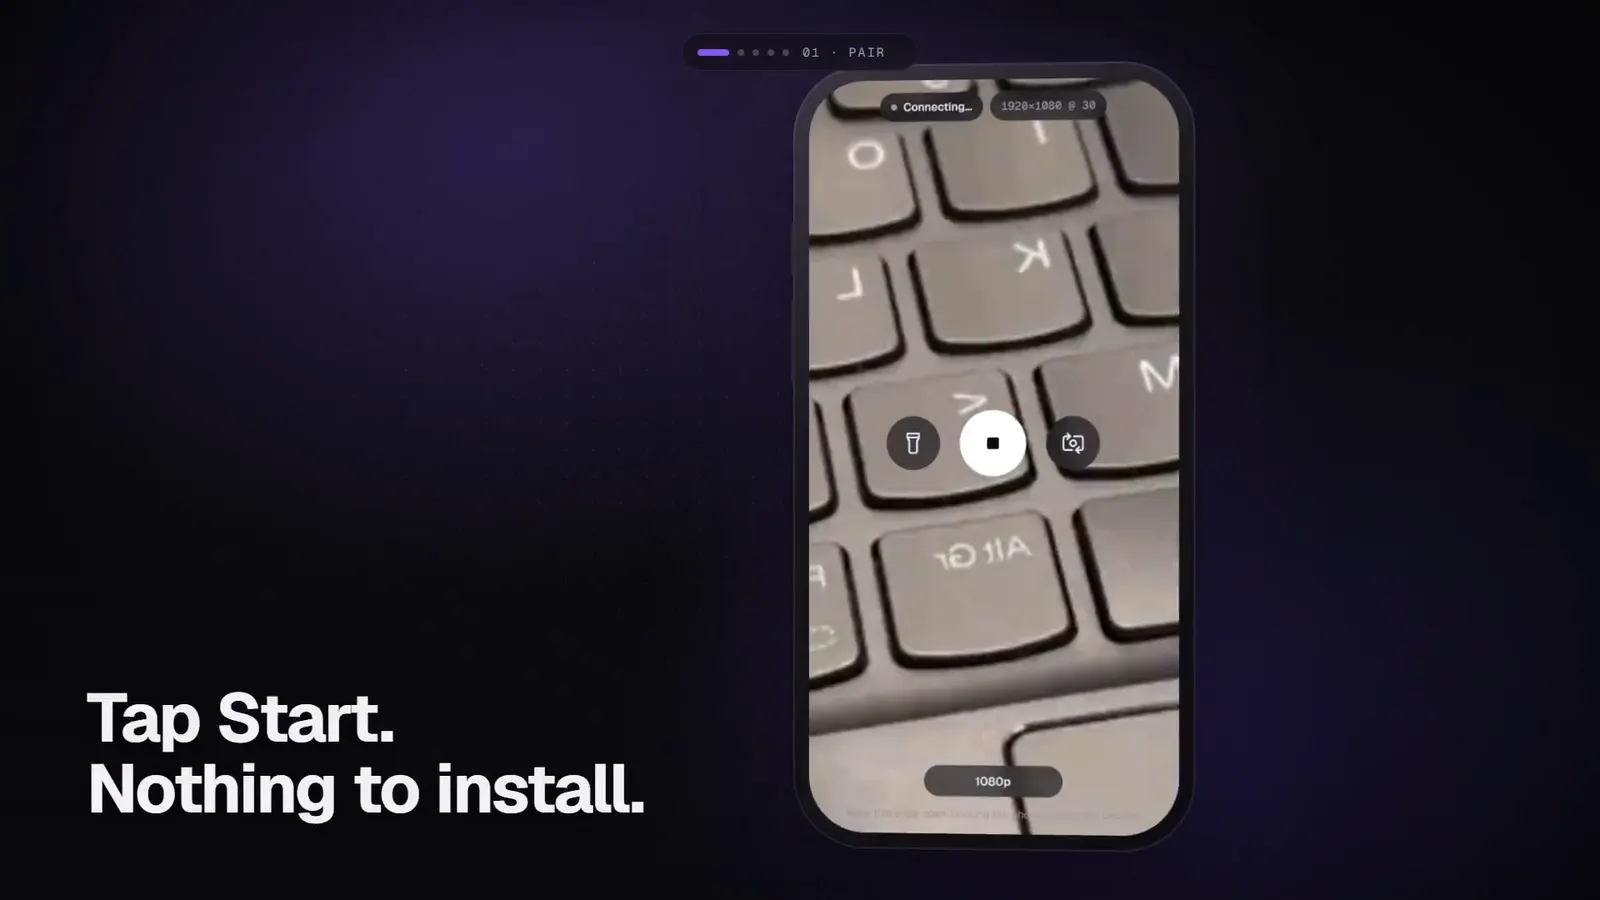
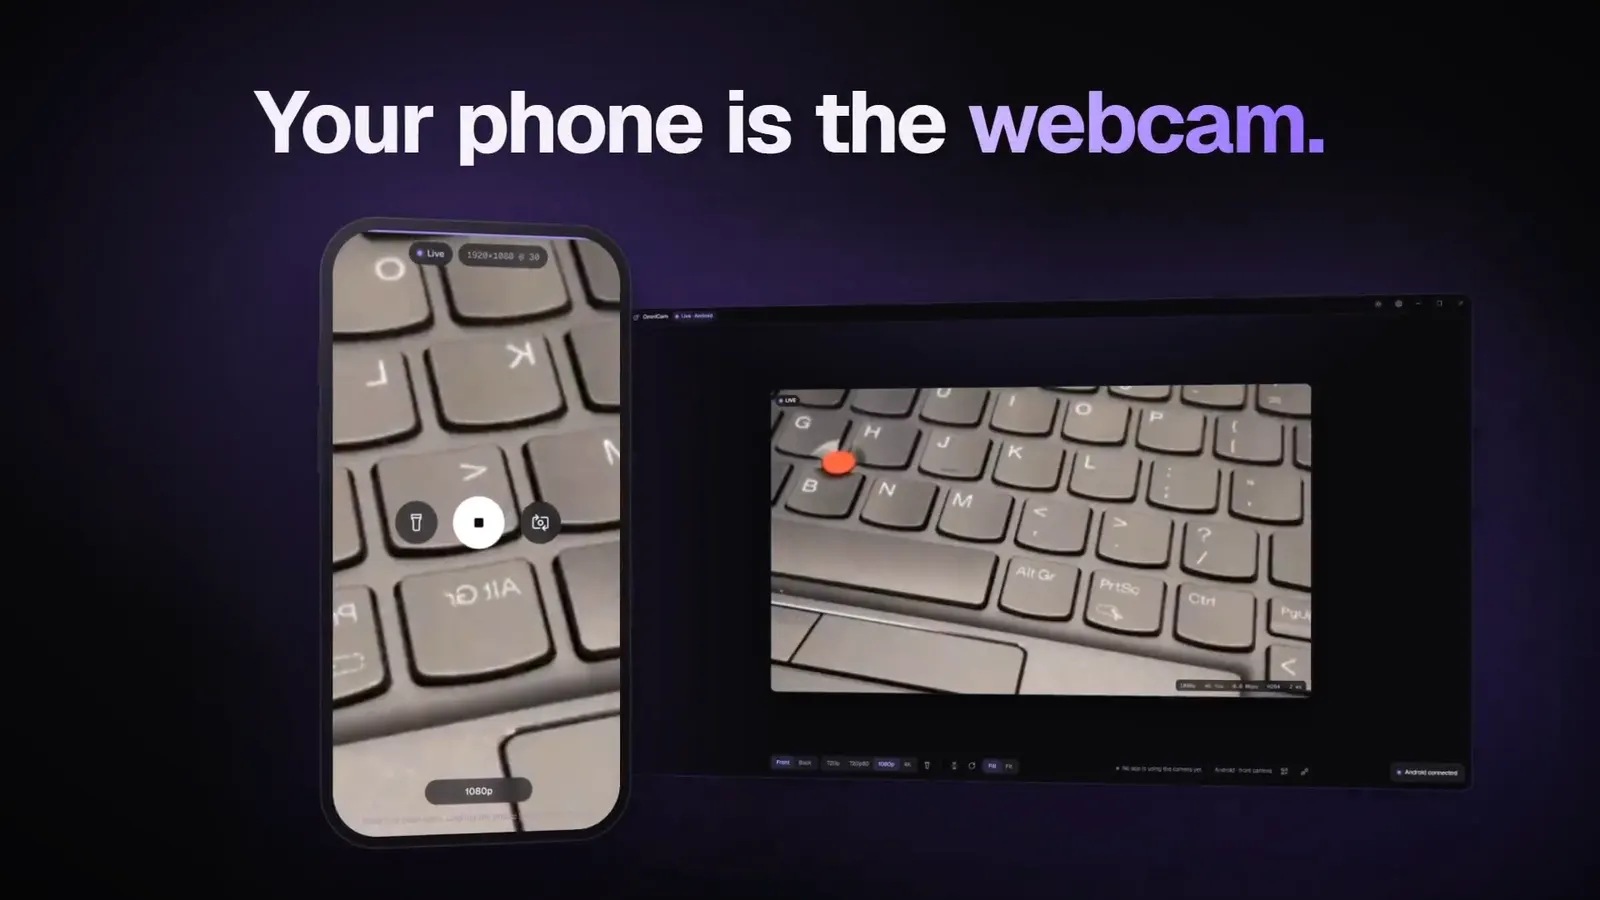
Autoplay the whole demo video, muted
Browsers only autoplay video without sound, so the demo now plays muted and looping from
the start while it is on screen, instead of a five-second excerpt. Playing from the top
needs no seeking, which the video host doesn't support (it ignores Range requests).
"Watch with sound" still restarts it unmuted with controls. The poster is now the
opening shot.

diff --git a/website/site.js b/website/site.js
@@ -46,24 +46,20 @@ const count = new Intl.NumberFormat('en', { notation: 'compact', maximumFraction
   }
 })();
 
-// Demo video. Until someone asks for it, the player loops a muted five seconds (tap Start → live on the PC) while it is
-// on screen; the browser fetches only that range of the hosted file. "Watch with sound" plays the same file from the top.
-// Reduced motion or Data Saver: no teaser, just the poster and the button.
+// Demo video. It autoplays muted and looping while it is on screen: browsers refuse autoplay with sound until the
+// visitor has interacted with the page. "Watch with sound" restarts it from the top, unmuted, with controls.
+// Reduced motion or Data Saver: no autoplay, just the poster and the button.
 {
   const video = document.getElementById('demo');
   const play = document.querySelector('.play');
-  const LOOP_START = 12.6, LOOP_END = 17.6;
   let teaser = !matchMedia('(prefers-reduced-motion: reduce)').matches && !navigator.connection?.saveData;
 
   video.controls = false;
   play.hidden = false;
 
   if (teaser) {
-    video.preload = 'metadata';
-    video.addEventListener('loadedmetadata', () => (video.currentTime = LOOP_START), { once: true });
-    video.addEventListener('timeupdate', () => {
-      if (teaser && video.currentTime >= LOOP_END) video.currentTime = LOOP_START;
-    });
+    video.loop = true;
+    video.preload = 'auto';
     new IntersectionObserver(([e]) => {
       if (!teaser) return;
       if (e.isIntersecting) video.play().catch(() => {});
@@ -74,6 +70,7 @@ const count = new Intl.NumberFormat('en', { notation: 'compact', maximumFraction
   const full = () => {
     teaser = false;
     play.hidden = true;
+    video.loop = false;
     video.controls = true;
     video.muted = false;
     video.currentTime = 0;

diff --git a/website/index.html b/website/index.html
@@ -55,7 +55,7 @@
         <p class="meta" data-download-meta>64-bit installer · MIT license</p>
       </div>
 
-      <!-- The hosted demo, muted and looping a five-second excerpt until someone asks for the whole thing with sound.
+      <!-- The hosted demo, autoplaying muted until someone asks for sound.
            Without JavaScript it is a plain video with controls. -->
       <div class="wrap">
         <div class="stage reveal">
